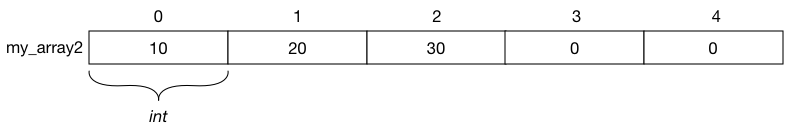
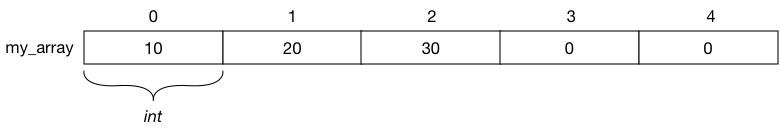
Remove foo

diff --git a/_episodes/11-arrays.md b/_episodes/11-arrays.md
@@ -7,18 +7,20 @@ objectives:
 keypoints:
 ---
 An array is a series of elements of the same type placed in contiguous memory locations that can be individually referenced by adding an 
-index to a unique identifier.
+index to a memory address. An array is named using a unique identifier.
 
-That means that, for example, five values of type `int` can be declared as an array without having to declare 5 different variables 
-(each with its own identifier). Instead, using an array, the five `int` values are stored in contiguous memory locations, and all 
-five can be accessed using the same identifier, with the proper index.
+This means, for example, that five values of type `int` can be declared as an array without having to declare 5 different variables 
+each with its own identifier. Instead, using an array the five `int` values are stored in contiguous memory locations, and all 
+five can be accessed using the same identifier and associated index.
 
-For example, an array containing 5 integer values of type `int` called `my_array` could be represented as:
+In the diagram below, `my_array` represents an array containing 5 integer values of type `int`:
 
 <img src="{{ site.github.url }}/fig/11-arrays-repr-01.png"/>
  
 Each block represents an element of the array. In this case, these are values of type `int`. These elements are numbered from 0 to 4, 
 with 0 being the first and 4 the last. *In C++, the first element in an array is always numbered with a zero (not a one), no matter its length.*
+The name `my_array` refers to the memory address of the first element of the array. Subsequent elements are accessed by adding the
+index to the address.
 
 Like a regular variable, an array must be declared before it is used. A typical declaration for an array in C++ is:
 
@@ -27,23 +29,23 @@ type name [elements];
 ~~~
 {: .code}
 
-For this declaration, `type` is a valid type (such as `int`, `float, etc.), `name` is a valid identifier, and the `elements` value 
+For this declaration, `type` is a valid type (such as `int`, `float`, etc.), `name` is a valid identifier, and the `elements` value 
 (which is always enclosed in square brackets []), specifies the length of the array in terms of the number of elements.
 
-Therefore, an array called `my_array`, with five elements of type `int`, can be declared as:
+To declare the `my_array` array from above, we would use the following:
 
 ~~~
 int my_array[5];
 ~~~
 {: .code}
 
-NOTE: The elements field within square brackets `[]`, representing the number of elements in the array, must be a constant expression, 
-since arrays are blocks of static memory whose size must be determined at compile time, before the program runs.
+NOTE: The number of elements specified must be a constant expression, since arrays are blocks of static memory whose size must be determined 
+at compile time.
 
 #### Initializing arrays
 
 By default, regular arrays of local scope (for example, those declared within a function) are left uninitialized. This means that 
-narray's elements are indeterminate at the point the array is declared. The elements in an array can be explicitly initialized, however, 
+an array's elements are indeterminate at the point the array is declared. The elements in an array can be explicitly initialized, however, 
 by enclosing those initial values in braces `{}`. 
 
 For example:
@@ -57,13 +59,13 @@ This statement declares an array that can be represented like this:
 
 <img src="{{ site.github.url }}/fig/11-arrays-repr-02.png"/>
  
-The number of values between braces must not be greater than the number of elements in the array, however it can be less. If declared with 
+The number of values between braces must not be greater than the number of elements in the array. However, it can be less. If declared with 
 less, the remaining elements are set to their default values (which for fundamental types, means they are set to zero). 
 
 For example:
 
 ~~~
-int my_array2[5] = { 10, 20, 30 }; 
+int my_array[5] = { 10, 20, 30 }; 
 ~~~
 {: .code}
 
@@ -74,7 +76,7 @@ Will create an array like this:
 The initializer can even have no values, just the braces:
 
 ~~~
-int my_array3[5] = { }; 
+int my_array[5] = { }; 
 ~~~
 {: .code}
 
@@ -119,14 +121,14 @@ that location:
 
 <img src="{{ site.github.url }}/fig/11-arrays-access.png"/>
  
-For example, the following statement stores the value 75 in the third element of `foo`:
+For example, the following statement stores the value 75 in the third element of `my_array`:
 
 ~~~
 my_array[2] = 75;
 ~~~
 {: .code}
 
-The following statement copies the value of the third element of `foo` to a variable called `x`:
+The following statement copies the value of the third element of `my_array` to a variable called `x`:
 
 ~~~
 x = my_array[2];
@@ -176,7 +178,7 @@ int main()
 {
   for (n = 0 ; n < 5 ; ++n )
   {
-    result += foo[n];
+    result += my_array[n];
   }
   cout << result;
   return 0;
